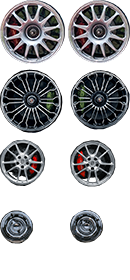
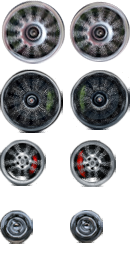
update wheel, animation speed
- update wheel position
- upddate animation speed

diff --git a/index.html b/index.html
@@ -11,7 +11,7 @@
   <!--[if IE 6]>
   <script type="text/javascript" src="./src/DD_belatedPNG_0.0.8a-min.js"></script>
   <script type="text/javascript">
-    DD_belatedPNG.fix('.car');
+    DD_belatedPNG.fix('.car,.wheel');
   </script>
   <![endif]-->
 
@@ -63,11 +63,11 @@
           <!-- logs -->
           <div id="logo-wrap" class="logo-wrap">
             <div class="logo-c">
-              <h2 jq-effect="delay:300;duration:500;">2013保时捷极至体验</h2>
-              <p class="summery" jq-effect="delay:500;duration:500;">用速度点燃你的激情，用梦想点亮你的生活！</p>
-              <p class="desc" jq-effect="delay:700;duration:400;">保时捷极至体验，再次来到中国，带来全方位的保时捷品牌展示。在这里，你可以感受保时捷的历史与辉煌， 近距离品鉴包括保时捷 356 在内的经典车型，抢先领略全新一代 Panamera 与 911 GT3 的领世风采，感受保时捷对跑车未来的激情演绎；您更可参与多项互动游戏，赢取试乘诸多新款保时捷车型的机会，体验风驰电掣的纵横驰骋。</p>
-              <p jq-effect="delay:1000;duration:400;"><a class="event" href="./daily.html"> 上海站 6 月 16 日 </a> 上海新能源主题公园</p>
-              <p class="logo-base" jq-effect="delay:1200;duration:500;"><a class="event" href="./daily.html#bg-act"> 北京站 6 月 30 日 </a> 北京金港国际赛车场</p>
+              <h2 jq-effect="delay:300;duration:800;">2013保时捷极至体验</h2>
+              <p class="summery" jq-effect="delay:600;duration:800;">用速度点燃你的激情，用梦想点亮你的生活！</p>
+              <p class="desc" jq-effect="delay:900;duration:800;">保时捷极至体验，再次来到中国，带来全方位的保时捷品牌展示。在这里，你可以感受保时捷的历史与辉煌， 近距离品鉴包括保时捷 356 在内的经典车型，抢先领略全新一代 Panamera 与 911 GT3 的领世风采，感受保时捷对跑车未来的激情演绎；您更可参与多项互动游戏，赢取试乘诸多新款保时捷车型的机会，体验风驰电掣的纵横驰骋。</p>
+              <p jq-effect="delay:1200;duration:800;"><a class="event" href="###"> 上海站 6 月 16 日 </a> 上海新能源主题公园</p>
+              <p class="logo-base" jq-effect="delay:1500;duration:800;"><a class="event" href="###"> 北京站 6 月 30 日 </a> 北京金港国际赛车场</p>
             </div>
           </div>
           <!-- cars -->
@@ -77,15 +77,15 @@
                 <div class="wheel end-wheel"></div>
                 <div class="wheel front-wheel"></div>
               </div>
-              <div class="car car2" jq-effect="delay:1000;duration:600;from:150%r;easing:easeOutCirc" >
+              <div class="car car2" jq-effect="delay:700;duration:800;from:150%r;easing:easeOutCirc" >
                 <div class="wheel end-wheel"></div>
                 <div class="wheel front-wheel"></div>
               </div>
-              <div class="car car3" jq-effect="delay:700;duration:700;from:150%r;easing:easeOutCirc">
+              <div class="car car3" jq-effect="delay:900;duration:800;from:150%r;easing:easeOutCirc">
                 <div class="wheel end-wheel"></div>
                 <div class="wheel front-wheel"></div>
               </div>
-              <div class="car car4" jq-effect="delay:1200;duration:800;from:150%r;easing:easeOutCirc">
+              <div class="car car4" jq-effect="delay:1100;duration:800;from:150%r;easing:easeOutCirc">
                 <div class="wheel end-wheel"></div>
                 <div class="wheel front-wheel"></div>
               </div>

diff --git a/app/main.js b/app/main.js
@@ -60,14 +60,14 @@ define(function(require, exports, module) {
         $('[jq-effect]').effect( function(){
             $(this).css({'left' :'' , 'right' : ''});
             // hide wheel
-            $(this).find('.wheel').fadeOut( 100 );
+            $(this).find('.wheel').fadeOut( 3000 );
         } );
 
         var aniTime = 800;
         var $cars = $('#cars .car');
         var $navs = $('#navs .nav');
         if( !$cars.length ) return;
-        var $tits = $('#navs .nav').click(function(){
+        var $tits = $('#navs .nav1,#navs .nav2').click(function(){
             var index = $(this).closest('.nav').index();
             _goIndex( index );
         });
@@ -87,7 +87,7 @@ define(function(require, exports, module) {
                     .animate( i == index ? rightCfg : {right: ( i * 5 + 60 ) + '%' } ,
                         i == index ? aniTime + 400 : aniTime , function(){
                             // hide wheel
-                            $(this).find('.wheel').fadeOut(100);
+                            $(this).find('.wheel').fadeOut(3000);
                         });
 
                 setTimeout( function(){
@@ -100,7 +100,7 @@ define(function(require, exports, module) {
                 // fade out nav
                 $navs.eq( i )
                     .delay( delay + 300 )
-                    .animate( {left : '150%'} ,  aniTime );
+                    .animate( {left : '180%'} ,  aniTime );
             });
             setTimeout( function(){
                 window.location.href = $('nav a').eq( 4 - index ).attr('href')
@@ -127,8 +127,11 @@ define(function(require, exports, module) {
       $('#t_wrap').show();
       $('footer').show();
       setTimeout(function(){
-         $('#lpn_mask').fadeOut( 400 , initCars );
-      } , 100);
+         $('#lpn_mask').animate( {top:-$(window).height()} , function(){
+			 initCars();
+			 $(this).hide();
+			});
+      } , 600);
     });
 
 

diff --git a/css/base.css b/css/base.css
@@ -156,7 +156,7 @@ span.lpn_ghost {
 .car .wheel{
   position: absolute;
   top: 73px;
-  left: 257px;
+  left: 244px;
   width: 65px;
   height: 64px;
 
@@ -164,48 +164,48 @@ span.lpn_ghost {
 }
 .car .front-wheel{
   top: 77px;
-  left: 526px;
+  left: 527px;
   width: 64px;
   height: 63px;
   background-position: -68px 0;
 }
 .car1 .front-wheel{
-  left: 230px;
+  left: 233px;
   top: 49px;
   width: 33px;
   height: 33px;
   background-position: -70px -210px;
 }
 .car1 .end-wheel{
-  left: 68px;
+  left: 72px;
   top: 50px;
   width: 33px;
   height: 33px;
   background-position: 0 -210px;
 }
 .car2 .front-wheel{
-  left: 256px;
+  left: 261px;
   top: 53px;
   width: 46px;
   height: 47px;
   background-position: -70px -140px;
 }
 .car2 .end-wheel{
-  left: 59px;
+  left: 64px;
   top: 54px;
   width: 46px;
   height: 47px;
   background-position: 0 -140px;
 }
 .car3 .front-wheel{
-  left: 333px;
+  left: 337px;
   top: 56px;
   width: 60px;
   height: 60px;
   background-position: -70px -70px;
 }
 .car3 .end-wheel{
-  left: 46px;
+  left: 50px;
   top: 53px;
   width: 60px;
   height: 60px;
@@ -300,21 +300,22 @@ span.lpn_ghost {
   top : 0;
   right : 7%;
   height : 88px;
-  width : 313px;
+  width : 330px;
+  z-index:100;
   background: url('../images/cars.png') no-repeat right -44px;
 }
 .car2{
   top:20px;
   right : 19%;
   height : 106px;
-  width : 350px;
+  width : 368px;
   background-position: right -172px;
 }
 .car3{
   top:36px;
   right : 34%;
   height : 125px;
-  width : 449px;
+  width : 466px;
   background-position: right -296px;
 }
 .car4{
